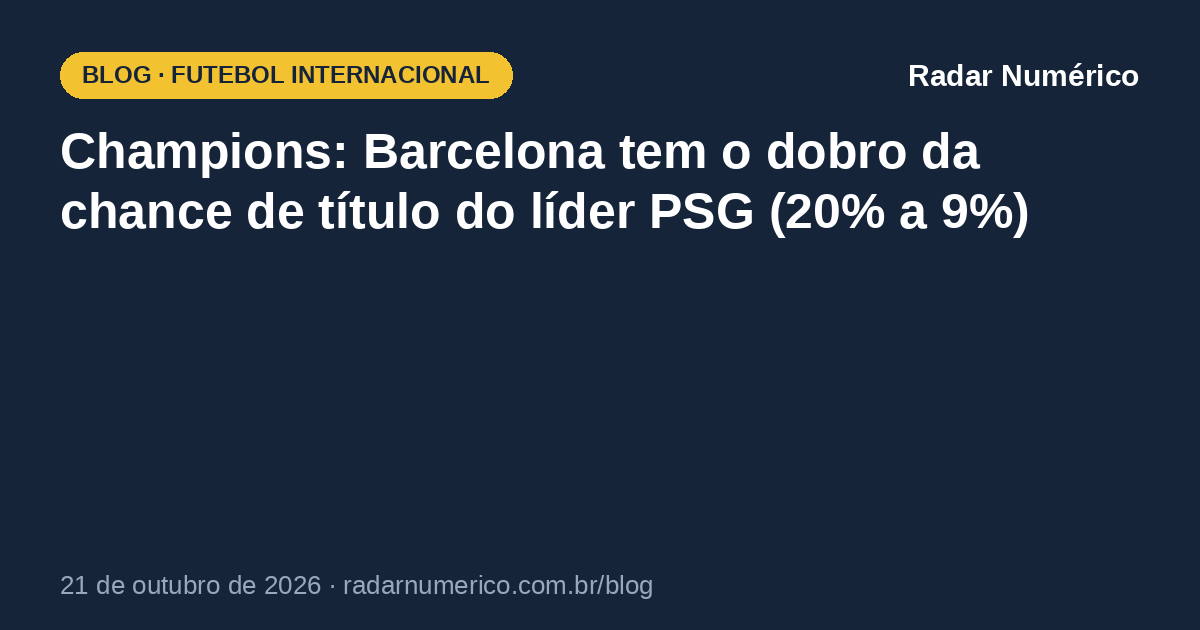
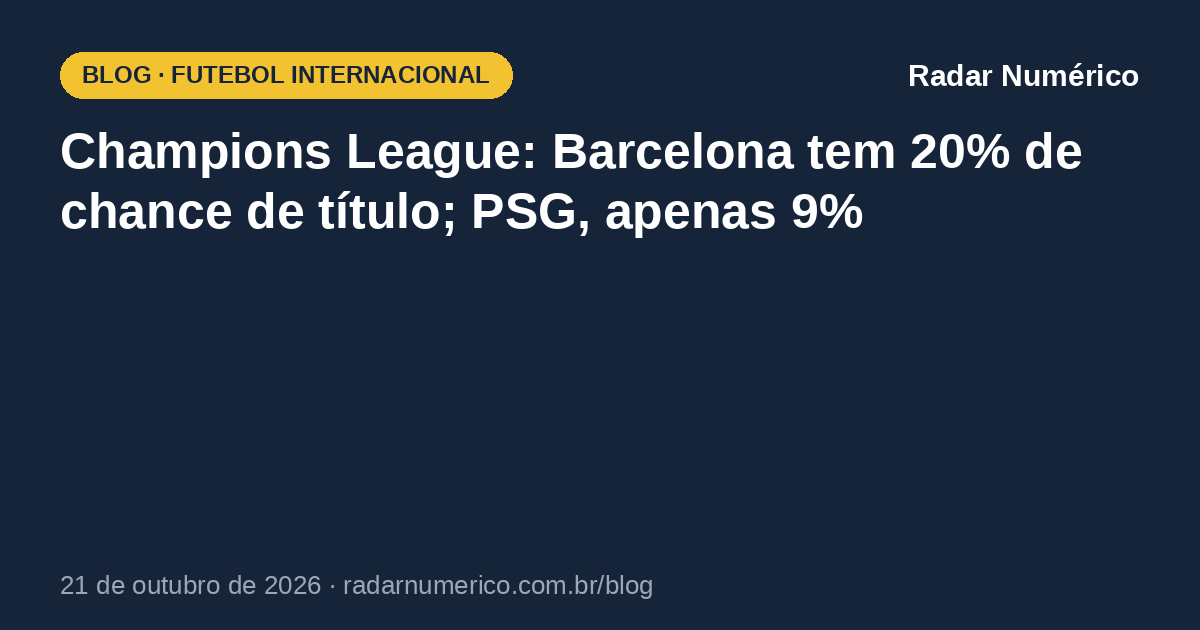
Blog: novo título do artigo da Champions ('Champions League: Barcelona tem 20% de chance de título; PSG, apenas 9%')
Claude-Session: https://claude.ai/code/session_01VxVLMVBxoJzjqMkZdsD8FW

Changed region(s): [[0.2775, 0.2111, 0.925, 0.3921]]

diff --git a/blog/index.html b/blog/index.html
@@ -17,7 +17,7 @@
 <meta property="og:image:width" content="1200">
 <meta property="og:image:height" content="630">
 <meta name="twitter:card" content="summary_large_image">
-<script type="application/ld+json">{"@context": "https://schema.org", "@type": "Blog", "name": "Blog do Radar Numérico", "url": "https://radarnumerico.com.br/blog/", "description": "Análises do Radar Numérico: o que os números dizem sobre o Brasileirão, as eleições e os métodos por trás das probabilidades.", "inLanguage": "pt-BR", "publisher": {"@type": "Organization", "name": "Radar Numérico", "url": "https://radarnumerico.com.br/"}, "blogPost": [{"@type": "BlogPosting", "headline": "Inter perde para o Mirassol e vê a chance de rebaixamento passar de 39% para 53%", "url": "https://radarnumerico.com.br/blog/brasileirao/inter-mirassol-rebaixamento/", "datePublished": "2026-10-17"}, {"@type": "BlogPosting", "headline": "Palmeiras vence e chance de título vai de 29% a 45% até o Flamengo jogar", "url": "https://radarnumerico.com.br/blog/brasileirao/palmeiras-athletico-titulo/", "datePublished": "2026-10-17"}, {"@type": "BlogPosting", "headline": "Atlético-MG chega a 60% de chance de Libertadores, a maior do ano", "url": "https://radarnumerico.com.br/blog/brasileirao/atletico-mg-libertadores/", "datePublished": "2026-10-18"}, {"@type": "BlogPosting", "headline": "Bahia perde em casa e chance de Libertadores cai de 61% para 47%", "url": "https://radarnumerico.com.br/blog/brasileirao/bahia-libertadores/", "datePublished": "2026-10-18"}, {"@type": "BlogPosting", "headline": "Copa do Brasil: Palmeiras é favorito com 51%; Atlético-MG tem 29%", "url": "https://radarnumerico.com.br/blog/copa-do-brasil/copa-do-brasil-semifinais/", "datePublished": "2026-10-18"}, {"@type": "BlogPosting", "headline": "Flamengo goleia o Bahia e chance de título volta a 71%", "url": "https://radarnumerico.com.br/blog/brasileirao/flamengo-titulo/", "datePublished": "2026-10-18"}, {"@type": "BlogPosting", "headline": "Grêmio leva 4 do Cruzeiro e chance de rebaixamento vai de 77% para 87%", "url": "https://radarnumerico.com.br/blog/brasileirao/gremio-rebaixamento/", "datePublished": "2026-10-18"}, {"@type": "BlogPosting", "headline": "Libertadores: Flamengo × Palmeiras é a final em 71% dos cenários", "url": "https://radarnumerico.com.br/blog/libertadores/libertadores-semifinais/", "datePublished": "2026-10-18"}, {"@type": "BlogPosting", "headline": "Santos vira no Maracanã e chance de G8 salta de 47% para 71%", "url": "https://radarnumerico.com.br/blog/brasileirao/santos-libertadores/", "datePublished": "2026-10-18"}, {"@type": "BlogPosting", "headline": "São Paulo: chance de Libertadores é 2% pelo G6 e 24% pelo G8", "url": "https://radarnumerico.com.br/blog/brasileirao/sao-paulo-libertadores/", "datePublished": "2026-10-18"}, {"@type": "BlogPosting", "headline": "Sul-Americana: Atlético-MG tem 57% de chance de título; Vasco, 36%", "url": "https://radarnumerico.com.br/blog/sul-americana/sul-americana-semifinais/", "datePublished": "2026-10-18"}, {"@type": "BlogPosting", "headline": "Corinthians empata com o Vitória e chance de rebaixamento sobe para 38%", "url": "https://radarnumerico.com.br/blog/brasileirao/corinthians-rebaixamento/", "datePublished": "2026-10-19"}, {"@type": "BlogPosting", "headline": "Rodada 31: o tombo do Bahia, o salto do Cruzeiro e o título que não mudou", "url": "https://radarnumerico.com.br/blog/brasileirao/rodada-31-quem-subiu-quem-caiu/", "datePublished": "2026-10-19"}, {"@type": "BlogPosting", "headline": "Barcelona tem o dobro da chance de título do líder PSG: 20% a 9%", "url": "https://radarnumerico.com.br/blog/futebol-internacional/barcelona-favorito-champions-psg/", "datePublished": "2026-10-21"}, {"@type": "BlogPosting", "headline": "Série B: Novorizontino tem 83% de chance de acesso; o Vila, 71%", "url": "https://radarnumerico.com.br/blog/serie-b/chances-de-acesso-rodada-35/", "datePublished": "2026-10-21"}]}</script>
+<script type="application/ld+json">{"@context": "https://schema.org", "@type": "Blog", "name": "Blog do Radar Numérico", "url": "https://radarnumerico.com.br/blog/", "description": "Análises do Radar Numérico: o que os números dizem sobre o Brasileirão, as eleições e os métodos por trás das probabilidades.", "inLanguage": "pt-BR", "publisher": {"@type": "Organization", "name": "Radar Numérico", "url": "https://radarnumerico.com.br/"}, "blogPost": [{"@type": "BlogPosting", "headline": "Inter perde para o Mirassol e vê a chance de rebaixamento passar de 39% para 53%", "url": "https://radarnumerico.com.br/blog/brasileirao/inter-mirassol-rebaixamento/", "datePublished": "2026-10-17"}, {"@type": "BlogPosting", "headline": "Palmeiras vence e chance de título vai de 29% a 45% até o Flamengo jogar", "url": "https://radarnumerico.com.br/blog/brasileirao/palmeiras-athletico-titulo/", "datePublished": "2026-10-17"}, {"@type": "BlogPosting", "headline": "Atlético-MG chega a 60% de chance de Libertadores, a maior do ano", "url": "https://radarnumerico.com.br/blog/brasileirao/atletico-mg-libertadores/", "datePublished": "2026-10-18"}, {"@type": "BlogPosting", "headline": "Bahia perde em casa e chance de Libertadores cai de 61% para 47%", "url": "https://radarnumerico.com.br/blog/brasileirao/bahia-libertadores/", "datePublished": "2026-10-18"}, {"@type": "BlogPosting", "headline": "Copa do Brasil: Palmeiras é favorito com 51%; Atlético-MG tem 29%", "url": "https://radarnumerico.com.br/blog/copa-do-brasil/copa-do-brasil-semifinais/", "datePublished": "2026-10-18"}, {"@type": "BlogPosting", "headline": "Flamengo goleia o Bahia e chance de título volta a 71%", "url": "https://radarnumerico.com.br/blog/brasileirao/flamengo-titulo/", "datePublished": "2026-10-18"}, {"@type": "BlogPosting", "headline": "Grêmio leva 4 do Cruzeiro e chance de rebaixamento vai de 77% para 87%", "url": "https://radarnumerico.com.br/blog/brasileirao/gremio-rebaixamento/", "datePublished": "2026-10-18"}, {"@type": "BlogPosting", "headline": "Libertadores: Flamengo × Palmeiras é a final em 71% dos cenários", "url": "https://radarnumerico.com.br/blog/libertadores/libertadores-semifinais/", "datePublished": "2026-10-18"}, {"@type": "BlogPosting", "headline": "Santos vira no Maracanã e chance de G8 salta de 47% para 71%", "url": "https://radarnumerico.com.br/blog/brasileirao/santos-libertadores/", "datePublished": "2026-10-18"}, {"@type": "BlogPosting", "headline": "São Paulo: chance de Libertadores é 2% pelo G6 e 24% pelo G8", "url": "https://radarnumerico.com.br/blog/brasileirao/sao-paulo-libertadores/", "datePublished": "2026-10-18"}, {"@type": "BlogPosting", "headline": "Sul-Americana: Atlético-MG tem 57% de chance de título; Vasco, 36%", "url": "https://radarnumerico.com.br/blog/sul-americana/sul-americana-semifinais/", "datePublished": "2026-10-18"}, {"@type": "BlogPosting", "headline": "Corinthians empata com o Vitória e chance de rebaixamento sobe para 38%", "url": "https://radarnumerico.com.br/blog/brasileirao/corinthians-rebaixamento/", "datePublished": "2026-10-19"}, {"@type": "BlogPosting", "headline": "Rodada 31: o tombo do Bahia, o salto do Cruzeiro e o título que não mudou", "url": "https://radarnumerico.com.br/blog/brasileirao/rodada-31-quem-subiu-quem-caiu/", "datePublished": "2026-10-19"}, {"@type": "BlogPosting", "headline": "Champions League: Barcelona tem 20% de chance de título; PSG, apenas 9%", "url": "https://radarnumerico.com.br/blog/futebol-internacional/barcelona-favorito-champions-psg/", "datePublished": "2026-10-21"}, {"@type": "BlogPosting", "headline": "Série B: Novorizontino tem 83% de chance de acesso; o Vila, 71%", "url": "https://radarnumerico.com.br/blog/serie-b/chances-de-acesso-rodada-35/", "datePublished": "2026-10-21"}]}</script>
 <link rel="icon" type="image/png" href="/favicon.png">
 <link rel="apple-touch-icon" href="/apple-touch-icon.png">
 <link rel="preconnect" href="https://fonts.googleapis.com">
@@ -86,7 +86,7 @@ svg.pos .p1,.legenda i.p1{fill:var(--azul);background:var(--azul)}svg.pos .g6,.l
 </head>
 <body>
 <!--menu--><header class="rn-topo"><div class="rn-in"><a class="rn-marca" href="/" title="Página inicial do Radar Numérico"><img src="/logo.png" alt="" width="22" height="25">Radar Numérico</a><button class="rn-abrir" type="button" aria-expanded="false" aria-controls="rn-menu"><span class="rn-ham" aria-hidden="true"></span>Menu</button><nav class="rn-menu" id="rn-menu" aria-label="Menu do site"><ul class="rn-n1"><li class="rn-g"><button class="rn-t" type="button" aria-expanded="false" aria-controls="rn-p0">Eleições 2026<i aria-hidden="true"></i></button><div class="rn-painel" id="rn-p0"><div class="rn-col"><p class="rn-h">1º turno · resultados</p><ul><li><a href="/apuracao2026/">Deputados Federais</a></li><li><a href="/apuracao2026/estaduais.html">Deputados Estaduais</a></li><li><a href="/apuracao2026/senado.html">Senadores</a></li><li><a href="/apuracao2026/governadores.html">Governadores</a></li><li><a href="/apuracao2026/2turno/presidente.html?turno=1">Presidente</a></li><li><a href="/eleicoes/?ano=2026&amp;cargo=presidente">Detalhamento por município</a></li></ul></div><div class="rn-col"><p class="rn-h">2º turno · apuração ao vivo</p><ul><li><a href="/apuracao2026/2turno/">Painel do 2º turno</a></li><li><a href="/apuracao2026/2turno/presidente.html">Presidente</a></li><li class="rn-ufs"><span>Governadores</span><a href="/apuracao2026/2turno/governador-ac.html" title="Governadores Acre">AC</a><a href="/apuracao2026/2turno/governador-am.html" title="Governadores Amazonas">AM</a><a href="/apuracao2026/2turno/governador-df.html" title="Governadores Distrito Federal">DF</a><a href="/apuracao2026/2turno/governador-es.html" title="Governadores Espírito Santo">ES</a><a href="/apuracao2026/2turno/governador-rj.html" title="Governadores Rio de Janeiro">RJ</a><a href="/apuracao2026/2turno/governador-rn.html" title="Governadores Rio Grande do Norte">RN</a><a href="/apuracao2026/2turno/governador-to.html" title="Governadores Tocantins">TO</a></li></ul></div><div class="rn-col"><p class="rn-h">Mais</p><ul><li><a href="/apuracao2026/favoritos.html">★ Meus candidatos</a></li><li><a href="/eleicoes/?ano=comp">Comparar com 2022</a></li></ul></div></div></li><li class="rn-g"><button class="rn-t" type="button" aria-expanded="false" aria-controls="rn-p1">Eleições 2022<i aria-hidden="true"></i></button><div class="rn-painel" id="rn-p1"><div class="rn-col"><p class="rn-h">1º turno · resultados</p><ul><li><a href="/eleicoes/?ano=2022&amp;cargo=dep_federal">Deputados Federais</a></li><li><a href="/eleicoes/?ano=2022&amp;cargo=dep_estadual">Deputados Estaduais</a></li><li><a href="/eleicoes/?ano=2022&amp;cargo=senador">Senadores</a></li><li><a href="/eleicoes/?ano=2022&amp;cargo=governador">Governadores</a></li><li><a href="/eleicoes/?ano=2022&amp;cargo=presidente">Presidente</a></li></ul></div><div class="rn-col"><p class="rn-h">2º turno · resultados</p><ul><li><a href="/eleicoes/?ano=2022&amp;cargo=governador&amp;turno=2">Governadores</a></li><li><a href="/eleicoes/?ano=2022&amp;cargo=presidente&amp;turno=2">Presidente</a></li></ul></div></div></li><li class="rn-g"><button class="rn-t" type="button" aria-expanded="false" aria-controls="rn-p2">Futebol<i aria-hidden="true"></i></button><div class="rn-painel" id="rn-p2"><div class="rn-col"><p class="rn-h">Brasileirão 2026</p><ul><li><a href="/futebol/brasileirao/">Chance de título</a></li><li><a href="/futebol/brasileirao/#s-liber">Chance de Libertadores</a></li><li><a href="/futebol/brasileirao/#s-z4">Chance de rebaixamento</a></li><li><a href="/futebol/brasileirao/#s-time">Analise as probabilidades do seu time</a></li><li><a href="/blog/#brasileirao">Últimas notícias (blog)</a></li></ul></div><div class="rn-col"><p class="rn-h">Copas 2026</p><ul><li><a href="/futebol/libertadores/">Libertadores</a></li><li><a href="/futebol/copa-do-brasil/">Copa do Brasil</a></li><li><a href="/futebol/sul-americana/">Sul-Americana</a></li></ul></div><div class="rn-col"><p class="rn-h">Copa do Mundo 2026</p><ul><li><a href="/futebol/copa-2026/">Probabilidades de cada seleção</a></li></ul></div></div></li><li class="rn-g"><a class="rn-t" href="/blog/">Blog</a></li><li class="rn-g"><a class="rn-t" href="/sobre/">Sobre</a></li></ul></nav></div></header><!--/menu-->
-<main class="wrap"><div class="kicker">Radar Numérico</div><h1>Blog</h1><p class="sub">Análises curtas a partir dos números: o que mudou depois de cada rodada, quanto cada resultado pesa e como as probabilidades são calculadas.</p><section class="lista" id="futebol-internacional"><h2 style="font-size:14px;letter-spacing:.08em;text-transform:uppercase;color:var(--mute);margin:26px 0 4px">Futebol internacional</h2><div class="post"><h2><a href="/blog/futebol-internacional/barcelona-favorito-champions-psg/">Barcelona tem o dobro da chance de título do líder PSG: 20% a 9%</a></h2><p>Mesmo depois de perder por 4×2 em Paris, o Barcelona segue favorito na Champions, com 20,3%. Bayern (19,4%), Arsenal (15,3%) e Manchester City (14,3%) vêm logo atrás; o PSG, líder da fase de liga, tem 9,4%.</p><div class="meta">21 de outubro de 2026 · Augusto Pellegrini, economista</div></div></section><section class="lista" id="serie-b"><h2 style="font-size:14px;letter-spacing:.08em;text-transform:uppercase;color:var(--mute);margin:26px 0 4px">Série B</h2><div class="post"><h2><a href="/blog/serie-b/chances-de-acesso-rodada-35/">Série B: Novorizontino tem 83% de chance de acesso; o Vila, 71%</a></h2><p>Com quatro rodadas pela frente, cinco times estão separados por três pontos e só dois sobem direto. Juventude tem 75,1%, Fortaleza 69,3% e Criciúma 63,6%; Atlético-GO e CRB brigam pela última vaga nos playoffs.</p><div class="meta">21 de outubro de 2026 · Augusto Pellegrini, economista</div></div></section><section class="lista" id="brasileirao"><h2 style="font-size:14px;letter-spacing:.08em;text-transform:uppercase;color:var(--mute);margin:26px 0 4px">Brasileirão</h2><div class="post"><h2><a href="/blog/brasileirao/rodada-31-quem-subiu-quem-caiu/">Rodada 31: o tombo do Bahia, o salto do Cruzeiro e o título que não mudou</a></h2><p>Dez jogos depois, o título voltou ao ponto de partida (Flamengo 71,5%), mas a Libertadores e o rebaixamento foram redistribuídos: Bahia perdeu 22 pontos percentuais de G6, Cruzeiro ganhou 29 de G4 — e a chance de Grêmio e Inter caírem juntos chegou a 37,0%.</p><div class="meta">19 de outubro de 2026 · Equipe Radar Numérico</div></div><div class="post"><h2><a href="/blog/brasileirao/corinthians-rebaixamento/">Corinthians empata com o Vitória e chance de rebaixamento sobe para 38%</a></h2><p>O 1 a 1 em casa interrompeu a série de oito derrotas, mas levou o risco de queda de 30,0% para 37,9% — o maior do ano. Sábado tem Vasco × Corinthians, um jogo que vale de 16% a 47%.</p><div class="meta">19 de outubro de 2026 · Equipe Radar Numérico</div></div><div class="post"><h2><a href="/blog/brasileirao/flamengo-titulo/">Flamengo goleia o Bahia e chance de título volta a 71%</a></h2><p>O 3 a 0 em Salvador levou a chance de 56,5% para 71,4% — o mesmo patamar de antes da rodada — e devolveu a liderança ao Flamengo, com 67 pontos. O Palmeiras caiu para 28,6%.</p><div class="meta">18 de outubro de 2026 · Equipe Radar Numérico</div></div><div class="post"><h2><a href="/blog/brasileirao/bahia-libertadores/">Bahia perde em casa e chance de Libertadores cai de 61% para 47%</a></h2><p>O 0 a 3 para o Flamengo tirou o Bahia do G6 e derrubou a chance de terminar entre os seis de 61,1% para 47,0%. Sábado tem Santos × Bahia, um jogo que vale de 35% a 70%.</p><div class="meta">18 de outubro de 2026 · Equipe Radar Numérico</div></div><div class="post"><h2><a href="/blog/brasileirao/gremio-rebaixamento/">Grêmio leva 4 do Cruzeiro e chance de rebaixamento vai de 77% para 87%</a></h2><p>A derrota por 4 a 2 em casa, pela rodada 31, levou o risco de queda de 76,9% para 87,4%. O Grêmio precisa de 43 pontos — quatro vitórias em sete jogos — para ter chance real de escapar.</p><div class="meta">18 de outubro de 2026 · Equipe Radar Numérico</div></div><div class="post"><h2><a href="/blog/brasileirao/santos-libertadores/">Santos vira no Maracanã e chance de G8 salta de 47% para 71%</a></h2><p>A virada por 2 a 1 sobre o Fluminense levou a chance de terminar entre os oito de 47,4% para 70,7%; a de G6, de 6,2% para 16,4%. Sábado tem Santos × Bahia, o jogo que mais pesa.</p><div class="meta">18 de outubro de 2026 · Equipe Radar Numérico</div></div><div class="post"><h2><a href="/blog/brasileirao/atletico-mg-libertadores/">Atlético-MG chega a 60% de chance de Libertadores, a maior do ano</a></h2><p>A vitória por 1 a 0 sobre o Coritiba levou a chance de terminar no G6 de 47,8% para 59,7% — o ponto mais alto do Galo em todo o campeonato. A briga por quatro vagas tem cinco times.</p><div class="meta">18 de outubro de 2026 · Equipe Radar Numérico</div></div><div class="post"><h2><a href="/blog/brasileirao/sao-paulo-libertadores/">São Paulo: chance de Libertadores é 2% pelo G6 e 24% pelo G8</a></h2><p>A vitória por 1 a 0 sobre o Vasco levou o Tricolor ao 8º lugar. Pelo modelo, a vaga direta (G6) está a 1,6%; a vaga que depende das copas (G8) subiu de 14,0% para 23,5%.</p><div class="meta">18 de outubro de 2026 · Equipe Radar Numérico</div></div><div class="post"><h2><a href="/blog/brasileirao/palmeiras-athletico-titulo/">Palmeiras vence e chance de título vai de 29% a 45% até o Flamengo jogar</a></h2><p>De 29,5% para 45,3% com o 2 a 0 sobre o Athletico-PR em Curitiba. A liderança é provisória: o Flamengo joga domingo contra o Bahia, e o resultado deixa o Palmeiras entre 33% e 57%.</p><div class="meta">17 de outubro de 2026 · Equipe Radar Numérico</div></div><div class="post"><h2><a href="/blog/brasileirao/inter-mirassol-rebaixamento/">Inter perde para o Mirassol e vê a chance de rebaixamento passar de 39% para 53%</a></h2><p>De 38,7% para 52,6% em um jogo: pela primeira vez no campeonato, é mais provável o Internacional cair do que ficar na Série A.</p><div class="meta">17 de outubro de 2026 · Equipe Radar Numérico</div></div></section><section class="lista" id="sul-americana"><h2 style="font-size:14px;letter-spacing:.08em;text-transform:uppercase;color:var(--mute);margin:26px 0 4px">Sul-Americana</h2><div class="post"><h2><a href="/blog/sul-americana/sul-americana-semifinais/">Sul-Americana: Atlético-MG tem 57% de chance de título; Vasco, 36%</a></h2><p>O 3 a 0 sobre o City Torque praticamente garantiu o Galo na final (97,9%). O Vasco, com o 1 a 0 na Bombonera, tem 85,0% de passar pelo Boca. A final brasileira acontece em 83,3% dos cenários.</p><div class="meta">18 de outubro de 2026 · Equipe Radar Numérico</div></div></section><section class="lista" id="copa-do-brasil"><h2 style="font-size:14px;letter-spacing:.08em;text-transform:uppercase;color:var(--mute);margin:26px 0 4px">Copa do Brasil</h2><div class="post"><h2><a href="/blog/copa-do-brasil/copa-do-brasil-semifinais/">Copa do Brasil: Palmeiras é favorito com 51%; Atlético-MG tem 29%</a></h2><p>A duas semanas das semifinais, o modelo dá 76,5% para o Palmeiras eliminar o Vasco e 69,8% para o Atlético-MG passar pelo Grêmio. A final mais provável, Palmeiras × Atlético-MG, aparece em 53,5% dos cenários.</p><div class="meta">18 de outubro de 2026 · Equipe Radar Numérico</div></div></section><section class="lista" id="libertadores"><h2 style="font-size:14px;letter-spacing:.08em;text-transform:uppercase;color:var(--mute);margin:26px 0 4px">Libertadores</h2><div class="post"><h2><a href="/blog/libertadores/libertadores-semifinais/">Libertadores: Flamengo × Palmeiras é a final em 71% dos cenários</a></h2><p>Depois das idas, o Palmeiras tem 89,2% de chance de chegar a Montevidéu e o Flamengo, 80,1%. No título, empate técnico: 45,3% para o Flamengo, 44,3% para o Palmeiras.</p><div class="meta">18 de outubro de 2026 · Equipe Radar Numérico</div></div></section></main>
+<main class="wrap"><div class="kicker">Radar Numérico</div><h1>Blog</h1><p class="sub">Análises curtas a partir dos números: o que mudou depois de cada rodada, quanto cada resultado pesa e como as probabilidades são calculadas.</p><section class="lista" id="futebol-internacional"><h2 style="font-size:14px;letter-spacing:.08em;text-transform:uppercase;color:var(--mute);margin:26px 0 4px">Futebol internacional</h2><div class="post"><h2><a href="/blog/futebol-internacional/barcelona-favorito-champions-psg/">Champions League: Barcelona tem 20% de chance de título; PSG, apenas 9%</a></h2><p>Mesmo depois de perder por 4×2 em Paris, o Barcelona segue favorito na Champions, com 20,3%. Bayern (19,4%), Arsenal (15,3%) e Manchester City (14,3%) vêm logo atrás; o PSG, líder da fase de liga, tem 9,4%.</p><div class="meta">21 de outubro de 2026 · Augusto Pellegrini, economista</div></div></section><section class="lista" id="serie-b"><h2 style="font-size:14px;letter-spacing:.08em;text-transform:uppercase;color:var(--mute);margin:26px 0 4px">Série B</h2><div class="post"><h2><a href="/blog/serie-b/chances-de-acesso-rodada-35/">Série B: Novorizontino tem 83% de chance de acesso; o Vila, 71%</a></h2><p>Com quatro rodadas pela frente, cinco times estão separados por três pontos e só dois sobem direto. Juventude tem 75,1%, Fortaleza 69,3% e Criciúma 63,6%; Atlético-GO e CRB brigam pela última vaga nos playoffs.</p><div class="meta">21 de outubro de 2026 · Augusto Pellegrini, economista</div></div></section><section class="lista" id="brasileirao"><h2 style="font-size:14px;letter-spacing:.08em;text-transform:uppercase;color:var(--mute);margin:26px 0 4px">Brasileirão</h2><div class="post"><h2><a href="/blog/brasileirao/rodada-31-quem-subiu-quem-caiu/">Rodada 31: o tombo do Bahia, o salto do Cruzeiro e o título que não mudou</a></h2><p>Dez jogos depois, o título voltou ao ponto de partida (Flamengo 71,5%), mas a Libertadores e o rebaixamento foram redistribuídos: Bahia perdeu 22 pontos percentuais de G6, Cruzeiro ganhou 29 de G4 — e a chance de Grêmio e Inter caírem juntos chegou a 37,0%.</p><div class="meta">19 de outubro de 2026 · Equipe Radar Numérico</div></div><div class="post"><h2><a href="/blog/brasileirao/corinthians-rebaixamento/">Corinthians empata com o Vitória e chance de rebaixamento sobe para 38%</a></h2><p>O 1 a 1 em casa interrompeu a série de oito derrotas, mas levou o risco de queda de 30,0% para 37,9% — o maior do ano. Sábado tem Vasco × Corinthians, um jogo que vale de 16% a 47%.</p><div class="meta">19 de outubro de 2026 · Equipe Radar Numérico</div></div><div class="post"><h2><a href="/blog/brasileirao/flamengo-titulo/">Flamengo goleia o Bahia e chance de título volta a 71%</a></h2><p>O 3 a 0 em Salvador levou a chance de 56,5% para 71,4% — o mesmo patamar de antes da rodada — e devolveu a liderança ao Flamengo, com 67 pontos. O Palmeiras caiu para 28,6%.</p><div class="meta">18 de outubro de 2026 · Equipe Radar Numérico</div></div><div class="post"><h2><a href="/blog/brasileirao/bahia-libertadores/">Bahia perde em casa e chance de Libertadores cai de 61% para 47%</a></h2><p>O 0 a 3 para o Flamengo tirou o Bahia do G6 e derrubou a chance de terminar entre os seis de 61,1% para 47,0%. Sábado tem Santos × Bahia, um jogo que vale de 35% a 70%.</p><div class="meta">18 de outubro de 2026 · Equipe Radar Numérico</div></div><div class="post"><h2><a href="/blog/brasileirao/gremio-rebaixamento/">Grêmio leva 4 do Cruzeiro e chance de rebaixamento vai de 77% para 87%</a></h2><p>A derrota por 4 a 2 em casa, pela rodada 31, levou o risco de queda de 76,9% para 87,4%. O Grêmio precisa de 43 pontos — quatro vitórias em sete jogos — para ter chance real de escapar.</p><div class="meta">18 de outubro de 2026 · Equipe Radar Numérico</div></div><div class="post"><h2><a href="/blog/brasileirao/santos-libertadores/">Santos vira no Maracanã e chance de G8 salta de 47% para 71%</a></h2><p>A virada por 2 a 1 sobre o Fluminense levou a chance de terminar entre os oito de 47,4% para 70,7%; a de G6, de 6,2% para 16,4%. Sábado tem Santos × Bahia, o jogo que mais pesa.</p><div class="meta">18 de outubro de 2026 · Equipe Radar Numérico</div></div><div class="post"><h2><a href="/blog/brasileirao/atletico-mg-libertadores/">Atlético-MG chega a 60% de chance de Libertadores, a maior do ano</a></h2><p>A vitória por 1 a 0 sobre o Coritiba levou a chance de terminar no G6 de 47,8% para 59,7% — o ponto mais alto do Galo em todo o campeonato. A briga por quatro vagas tem cinco times.</p><div class="meta">18 de outubro de 2026 · Equipe Radar Numérico</div></div><div class="post"><h2><a href="/blog/brasileirao/sao-paulo-libertadores/">São Paulo: chance de Libertadores é 2% pelo G6 e 24% pelo G8</a></h2><p>A vitória por 1 a 0 sobre o Vasco levou o Tricolor ao 8º lugar. Pelo modelo, a vaga direta (G6) está a 1,6%; a vaga que depende das copas (G8) subiu de 14,0% para 23,5%.</p><div class="meta">18 de outubro de 2026 · Equipe Radar Numérico</div></div><div class="post"><h2><a href="/blog/brasileirao/palmeiras-athletico-titulo/">Palmeiras vence e chance de título vai de 29% a 45% até o Flamengo jogar</a></h2><p>De 29,5% para 45,3% com o 2 a 0 sobre o Athletico-PR em Curitiba. A liderança é provisória: o Flamengo joga domingo contra o Bahia, e o resultado deixa o Palmeiras entre 33% e 57%.</p><div class="meta">17 de outubro de 2026 · Equipe Radar Numérico</div></div><div class="post"><h2><a href="/blog/brasileirao/inter-mirassol-rebaixamento/">Inter perde para o Mirassol e vê a chance de rebaixamento passar de 39% para 53%</a></h2><p>De 38,7% para 52,6% em um jogo: pela primeira vez no campeonato, é mais provável o Internacional cair do que ficar na Série A.</p><div class="meta">17 de outubro de 2026 · Equipe Radar Numérico</div></div></section><section class="lista" id="sul-americana"><h2 style="font-size:14px;letter-spacing:.08em;text-transform:uppercase;color:var(--mute);margin:26px 0 4px">Sul-Americana</h2><div class="post"><h2><a href="/blog/sul-americana/sul-americana-semifinais/">Sul-Americana: Atlético-MG tem 57% de chance de título; Vasco, 36%</a></h2><p>O 3 a 0 sobre o City Torque praticamente garantiu o Galo na final (97,9%). O Vasco, com o 1 a 0 na Bombonera, tem 85,0% de passar pelo Boca. A final brasileira acontece em 83,3% dos cenários.</p><div class="meta">18 de outubro de 2026 · Equipe Radar Numérico</div></div></section><section class="lista" id="copa-do-brasil"><h2 style="font-size:14px;letter-spacing:.08em;text-transform:uppercase;color:var(--mute);margin:26px 0 4px">Copa do Brasil</h2><div class="post"><h2><a href="/blog/copa-do-brasil/copa-do-brasil-semifinais/">Copa do Brasil: Palmeiras é favorito com 51%; Atlético-MG tem 29%</a></h2><p>A duas semanas das semifinais, o modelo dá 76,5% para o Palmeiras eliminar o Vasco e 69,8% para o Atlético-MG passar pelo Grêmio. A final mais provável, Palmeiras × Atlético-MG, aparece em 53,5% dos cenários.</p><div class="meta">18 de outubro de 2026 · Equipe Radar Numérico</div></div></section><section class="lista" id="libertadores"><h2 style="font-size:14px;letter-spacing:.08em;text-transform:uppercase;color:var(--mute);margin:26px 0 4px">Libertadores</h2><div class="post"><h2><a href="/blog/libertadores/libertadores-semifinais/">Libertadores: Flamengo × Palmeiras é a final em 71% dos cenários</a></h2><p>Depois das idas, o Palmeiras tem 89,2% de chance de chegar a Montevidéu e o Flamengo, 80,1%. No título, empate técnico: 45,3% para o Flamengo, 44,3% para o Palmeiras.</p><div class="meta">18 de outubro de 2026 · Equipe Radar Numérico</div></div></section></main>
 <footer class="wrap">Radar Numérico · radarnumerico.com.br · projeto apartidário · <a href="/sobre/">Sobre e contato</a> · <a href="https://www.instagram.com/radarnumerico/" target="_blank" rel="noopener">Instagram</a> · <a href="https://www.youtube.com/@radarnumerico" target="_blank" rel="noopener">YouTube</a> · <a href="/privacidade.html">Política de privacidade</a></footer>
 </body>
 </html>

diff --git a/blog/futebol-internacional/barcelona-favorito-champions-psg/index.html b/blog/futebol-internacional/barcelona-favorito-champions-psg/index.html
@@ -4,20 +4,20 @@
 <meta charset="utf-8">
 <meta name="viewport" content="width=device-width, initial-scale=1">
 <meta name="robots" content="max-image-preview:large">
-<title>Barcelona tem o dobro da chance de título do líder PSG: 20% a 9%</title>
+<title>Champions: Barcelona tem 20% de chance de título; PSG, apenas 9%</title>
 <meta name="description" content="Chances de título da Champions 2026/27 por time após a 3ª rodada: Barcelona favorito, o que muda com Bayern × Arsenal e as finais mais prováveis.">
 <link rel="canonical" href="https://radarnumerico.com.br/blog/futebol-internacional/barcelona-favorito-champions-psg/">
 <meta property="og:type" content="article">
 <meta property="og:site_name" content="Radar Numérico">
 <meta property="og:locale" content="pt_BR">
-<meta property="og:title" content="Barcelona tem o dobro da chance de título do líder PSG: 20% a 9%">
+<meta property="og:title" content="Champions: Barcelona tem 20% de chance de título; PSG, apenas 9%">
 <meta property="og:description" content="Chances de título da Champions 2026/27 por time após a 3ª rodada: Barcelona favorito, o que muda com Bayern × Arsenal e as finais mais prováveis.">
 <meta property="og:url" content="https://radarnumerico.com.br/blog/futebol-internacional/barcelona-favorito-champions-psg/">
 <meta property="og:image" content="https://radarnumerico.com.br/blog/futebol-internacional/barcelona-favorito-champions-psg/og.png">
 <meta property="og:image:width" content="1200">
 <meta property="og:image:height" content="630">
 <meta name="twitter:card" content="summary_large_image">
-<script type="application/ld+json">{"@context": "https://schema.org", "@type": "NewsArticle", "headline": "Barcelona tem o dobro da chance de título do líder PSG: 20% a 9%", "description": "Chances de título da Champions 2026/27 por time após a 3ª rodada: Barcelona favorito, o que muda com Bayern × Arsenal e as finais mais prováveis.", "inLanguage": "pt-BR", "datePublished": "2026-10-21T11:00:00-03:00", "dateModified": "2026-10-21T11:00:00-03:00", "author": {"@type": "Person", "name": "Augusto Pellegrini", "url": "https://radarnumerico.com.br/sobre/"}, "publisher": {"@type": "Organization", "name": "Radar Numérico", "url": "https://radarnumerico.com.br/", "logo": {"@type": "ImageObject", "url": "https://radarnumerico.com.br/logo.png"}}, "mainEntityOfPage": "https://radarnumerico.com.br/blog/futebol-internacional/barcelona-favorito-champions-psg/", "image": ["https://radarnumerico.com.br/blog/futebol-internacional/barcelona-favorito-champions-psg/og.png"], "articleSection": "Futebol internacional", "isPartOf": {"@type": "Blog", "name": "Blog do Radar Numérico", "url": "https://radarnumerico.com.br/blog/"}}</script>
+<script type="application/ld+json">{"@context": "https://schema.org", "@type": "NewsArticle", "headline": "Champions League: Barcelona tem 20% de chance de título; PSG, apenas 9%", "description": "Chances de título da Champions 2026/27 por time após a 3ª rodada: Barcelona favorito, o que muda com Bayern × Arsenal e as finais mais prováveis.", "inLanguage": "pt-BR", "datePublished": "2026-10-21T11:00:00-03:00", "dateModified": "2026-10-21T11:00:00-03:00", "author": {"@type": "Person", "name": "Augusto Pellegrini", "url": "https://radarnumerico.com.br/sobre/"}, "publisher": {"@type": "Organization", "name": "Radar Numérico", "url": "https://radarnumerico.com.br/", "logo": {"@type": "ImageObject", "url": "https://radarnumerico.com.br/logo.png"}}, "mainEntityOfPage": "https://radarnumerico.com.br/blog/futebol-internacional/barcelona-favorito-champions-psg/", "image": ["https://radarnumerico.com.br/blog/futebol-internacional/barcelona-favorito-champions-psg/og.png"], "articleSection": "Futebol internacional", "isPartOf": {"@type": "Blog", "name": "Blog do Radar Numérico", "url": "https://radarnumerico.com.br/blog/"}}</script>
 <link rel="icon" type="image/png" href="/favicon.png">
 <link rel="apple-touch-icon" href="/apple-touch-icon.png">
 <link rel="preconnect" href="https://fonts.googleapis.com">
@@ -89,7 +89,7 @@ svg.pos .p1,.legenda i.p1{fill:var(--azul);background:var(--azul)}svg.pos .g6,.l
 <main class="wrap">
 <article>
 <div class="kicker"><a href="/blog/">Blog</a> · <a href="/blog/#futebol-internacional">Futebol internacional</a></div>
-<h1>Barcelona tem o dobro da chance de título do líder PSG: 20% a 9%</h1>
+<h1>Champions League: Barcelona tem 20% de chance de título; PSG, apenas 9%</h1>
 <p class="sub">Mesmo depois de perder por 4×2 em Paris, o Barcelona segue favorito na Champions, com 20,3%. Bayern (19,4%), Arsenal (15,3%) e Manchester City (14,3%) vêm logo atrás; o PSG, líder da fase de liga, tem 9,4%.</p>
 <div class="byline"><span>Por <b>Augusto Pellegrini, economista</b></span><span>21 de outubro de 2026 às 11h00</span><span>Champions League 2026/27</span></div>
 <p>Os favoritos ao título da Champions League 2026/27 são, nesta ordem, <strong>Barcelona (20,3%)</strong>, <strong>Bayern de Munique (19,4%)</strong>, <strong>Arsenal (15,3%)</strong> e <strong>Manchester City (14,3%)</strong>. Juntos, os quatro somam 69% de chance de levantar a taça em Madri, no dia 5 de junho de 2027. O PSG, que lidera a fase de liga com 9 pontos e ganhou do próprio Barcelona ontem, aparece em quinto, com <strong>9,4%</strong>.</p>
